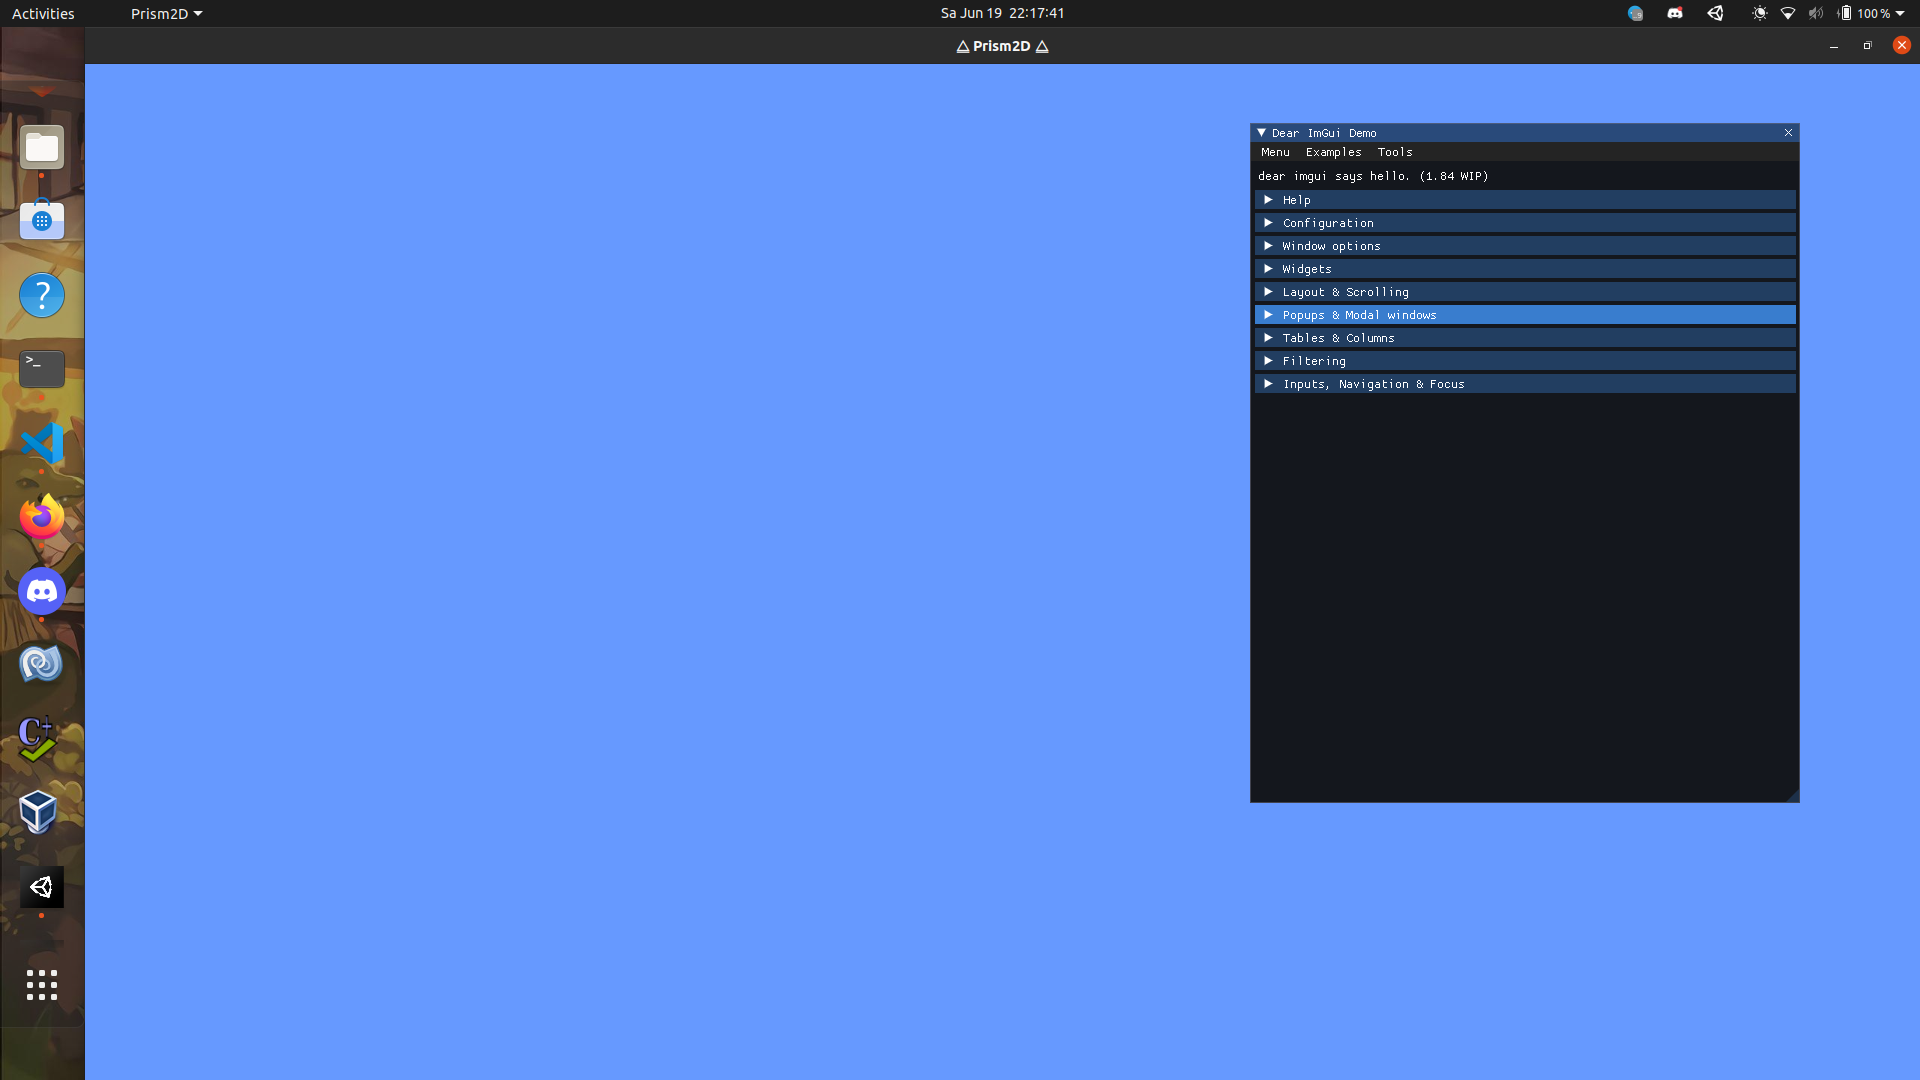
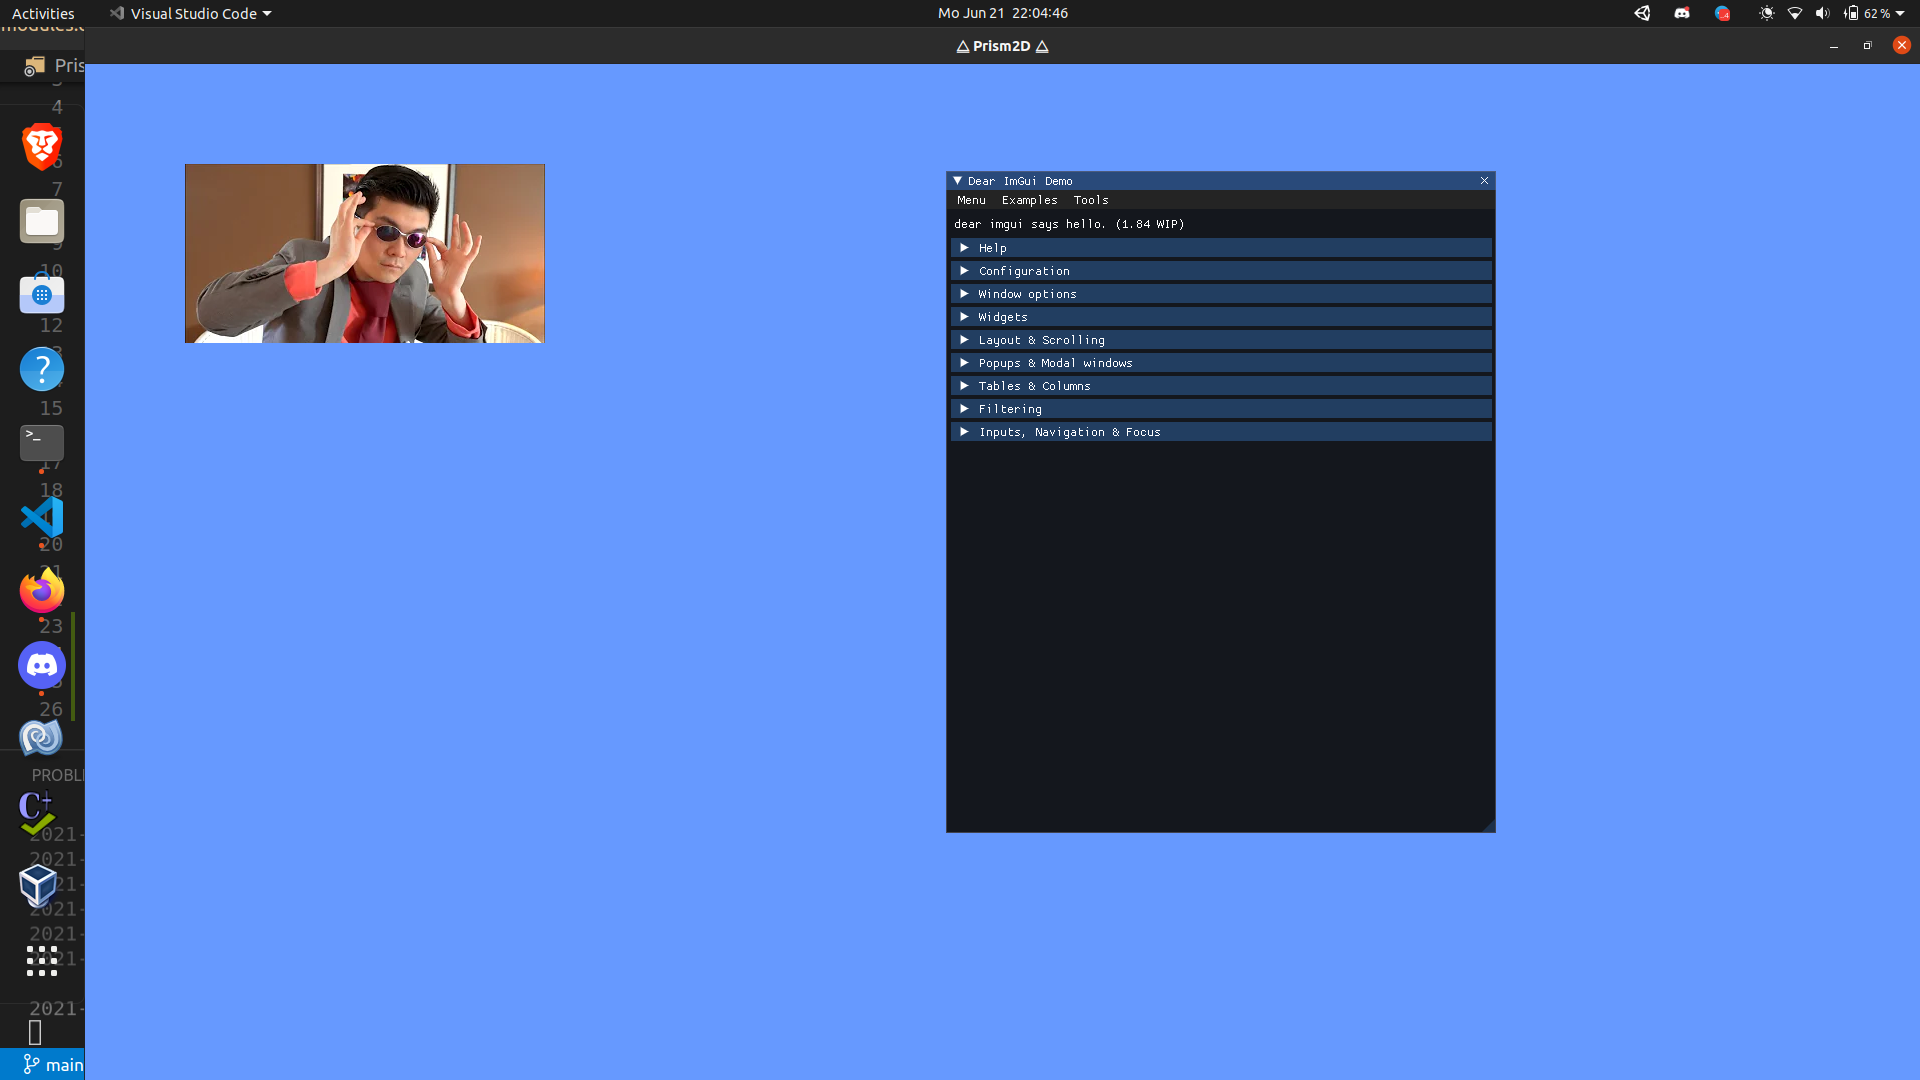
Support for loading and displaying images

diff --git a/Engine/src/renderer/textures/texture.cc b/Engine/src/renderer/textures/texture.cc
@@ -1,0 +1,38 @@
+#include "texture.h"
+#include "../../logging/log.h"
+
+namespace renderer
+{
+    Texture::Texture(char *file)
+    {
+        this->file = file;
+
+        if (!al_init_image_addon())
+        {
+            Log().fatal("Failed to load the image addon, textures cannot be loaded.");
+            return;
+        }
+        
+        this->bmp = al_load_bitmap(file);        
+        if (!this->bmp)
+        {
+            Log().warn("Could not load image `%s'\n", file);
+            this->image_load_failed = true;
+            return;
+        }
+    }
+
+    void Texture::draw_texture(int x, int y)
+    {
+        if (this->image_load_failed)
+        {
+            Log().warn("You are trying to draw an image which is null. This is not allowed, please load the image before drawing it");
+        }
+        al_draw_bitmap(this->bmp, x, y, 0);
+    }
+
+    Texture::~Texture()
+    {
+        al_destroy_bitmap(this->bmp);
+    }
+}

diff --git a/Engine/src/Engine.cc b/Engine/src/Engine.cc
@@ -8,6 +8,7 @@
 #include "OS/os.h"
 #include "renderer/clear_color.h"
 #include <thread>
+#include "renderer/textures/texture.h"
 
 namespace Prism
 {
@@ -84,11 +85,13 @@ namespace Prism
                 ImGui::Render();
 
                 ImGui_ImplAllegro5_RenderDrawData(ImGui::GetDrawData());
+
                 al_flip_display();
             }
         }
     }
 
+    #pragma region Python
     //Call pythons Enter function
     void Engine::Enter()
     {
@@ -168,7 +171,8 @@ namespace Prism
             Log().warn("Could not unregister script :: The script %s was not found", name.c_str());
         }
     }
-
+    #pragma endregion
+    
     void Engine::read_config_file(const char *file)
     {
         // Log().info("Loading ini file");

diff --git a/Engine/src/language_bindings/python/api/modules.cc b/Engine/src/language_bindings/python/api/modules.cc
@@ -1,6 +1,6 @@
 #include <Python.h>
 #include "../../../logging/log.h"
-#include "renderer/module_clear_color.h"
+#include "renderer/module_texture.h"
 #include "logging/module_log.h"
 
 /* Exportable python functions */
@@ -13,8 +13,12 @@ extern "C"
 
 	void Python_clear_color(int r, int g, int b)
 	{
-		return al_clear_to_color(al_map_rgb(r, g, b));//ClearColor().clear(r, g, b);//cpp_clear_color(r, g, b);
+		return al_clear_to_color(al_map_rgb(r, g, b));
 	}
 
+	void Python_render_texture(char *filename, int x, int y)
+	{
+		return cpp_render_texture(filename, x, y);
+	}
 	
 }

diff --git a/Engine/src/renderer/textures/texture.h b/Engine/src/renderer/textures/texture.h
@@ -1,0 +1,23 @@
+#pragma once
+
+#include <allegro5/allegro5.h>
+#include <allegro5/allegro_font.h>
+#include <allegro5/allegro_image.h>
+
+namespace renderer
+{
+    class Texture
+    {
+        public:
+            Texture(char *file);
+            ~Texture();
+            
+        public:
+            void draw_texture(int x, int y);
+
+        private:
+            char *file;
+            ALLEGRO_BITMAP *bmp;
+            bool image_load_failed = false;
+    };
+}

diff --git a/Engine/src/renderer/clear_color.cc b/Engine/src/renderer/clear_color.cc
@@ -1,11 +1,14 @@
 #include "clear_color.h"
 
-void ClearColor::clear(ALLEGRO_COLOR color)
+namespace renderer
 {
-    al_clear_to_color(color);
-}
+    void ClearColor::clear(ALLEGRO_COLOR color)
+    {
+        al_clear_to_color(color);
+    }
 
-void ClearColor::clear(int r, int g, int b)
-{
-    al_clear_to_color(al_map_rgb(r, g, b));
+    void ClearColor::clear(int r, int g, int b)
+    {
+        al_clear_to_color(al_map_rgb(r, g, b));
+    }
 }

diff --git a/api/prism2d/Prism2d.py b/api/prism2d/Prism2d.py
@@ -17,5 +17,10 @@ class Renderer:
     def __init__(self) -> None:
         pass
 
+    # TODO: Add a clear function that takes an image as an argument to draw a background
     def clear(r, g, b):
         return engine_handle.Python_clear_color(r, g, b)
+
+    def render_texture(filename, x, y):
+        filename = bytes(filename.encode())
+        return engine_handle.Python_render_texture(filename, x, y)

diff --git a/api/example.py b/api/example.py
@@ -12,6 +12,7 @@ def Update():
 def LateUpdate():
         pass
 
-# Called once per frame, use only for rendering
+# Called once per frame, use only for rendering (Renderer.clear *must* be called first otherwise it will draw over your textures)
 def RenderCycle():
         Renderer.clear(102, 153, 255) #Cornflower blue
+        Renderer.render_texture("../res/epic.png", 100, 100)

diff --git a/Engine/src/language_bindings/python/api/renderer/module_texture.h b/Engine/src/language_bindings/python/api/renderer/module_texture.h
@@ -1,0 +1,11 @@
+#pragma once
+
+#include "../../../../renderer/textures/texture.h"
+
+void cpp_render_texture(char *filename, int x, int y)
+{
+	using namespace renderer;
+	Texture *_tex = new Texture(filename);
+	_tex->draw_texture(x, y);
+	delete _tex;
+}

diff --git a/Engine/src/renderer/clear_color.h b/Engine/src/renderer/clear_color.h
@@ -2,10 +2,12 @@
 
 #include <allegro5/allegro5.h>
 
-
-class ClearColor
+namespace renderer
 {
+    class ClearColor
+    {
     public:
         void clear(ALLEGRO_COLOR color);
         void clear(int r, int g, int b);
-};
+    };
+}

diff --git a/Engine/SandboxApp/Sandbox.cc b/Engine/SandboxApp/Sandbox.cc
@@ -3,7 +3,7 @@
 #include <string>
 #include "../src/OS/os.h"
 #include "../src/UI/ui.h"
-#include <allegro5/allegro_native_dialog.h>
+#include "../src/renderer/textures/texture.h"
 
 void SandboxApp::Start(int argc, char **argv)
 {
